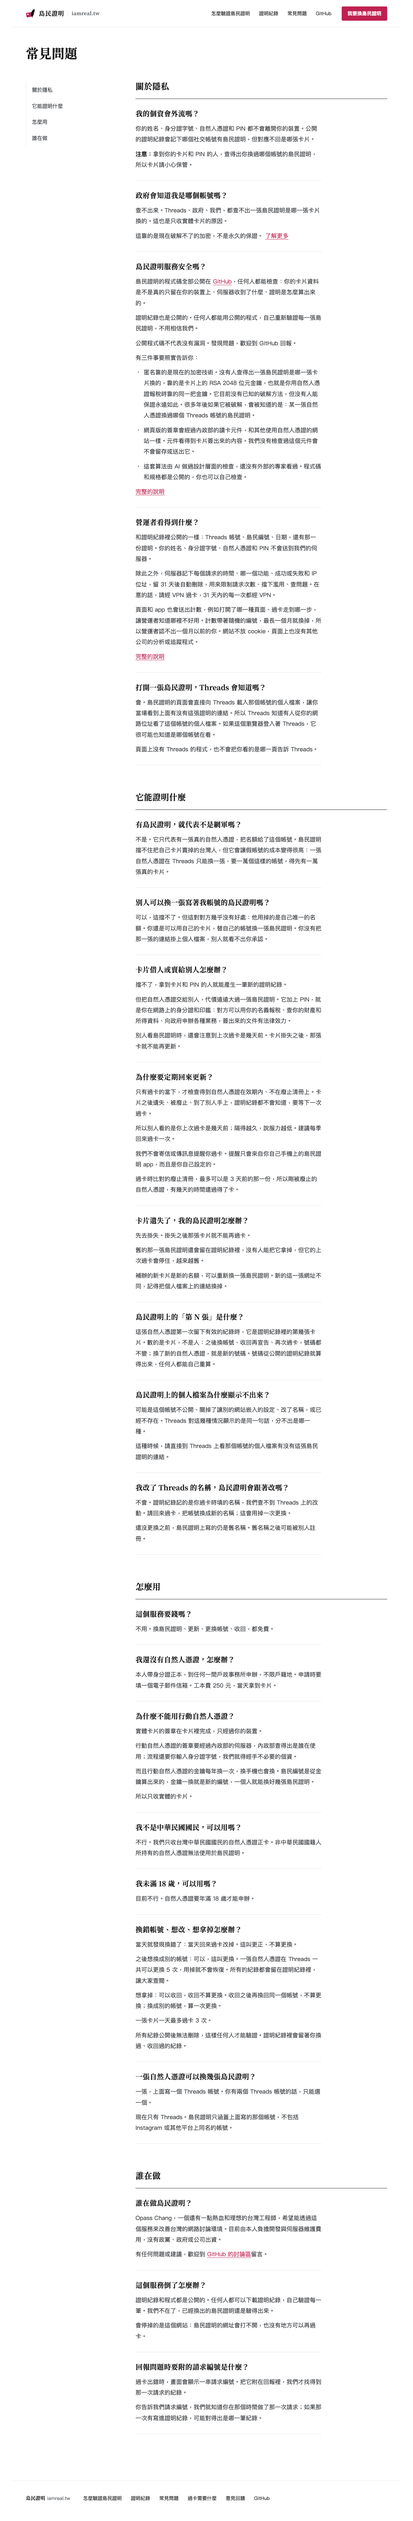
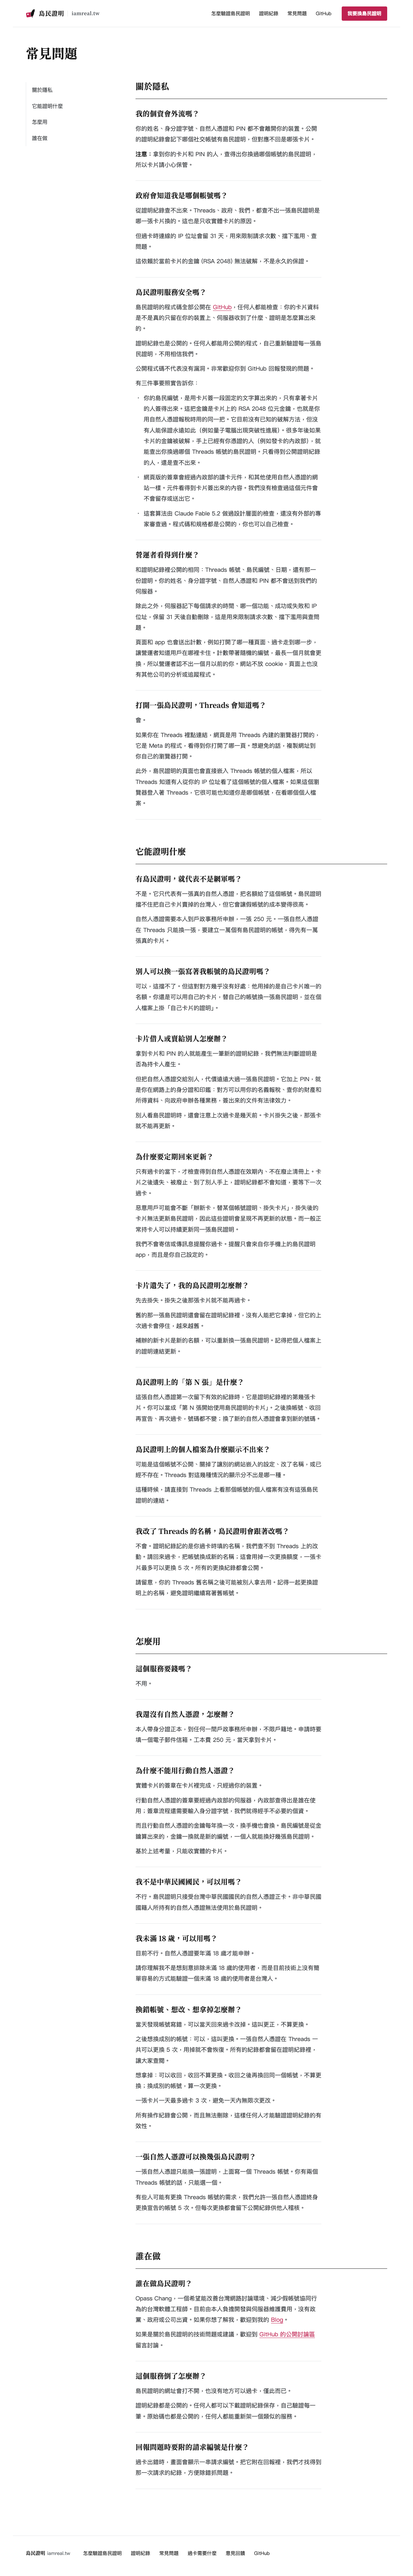
審查的修正：答案的連結只能連出站外、「有島民證明，就代表不是網軍嗎？」寫 250 元的來源、README 的網址清單、design/screens 的常見問題換成新的文字（#342）

Changed region(s): [[0.3125, 0.0312, 0.7812, 0.966], [0.0625, 0.0312, 0.125, 0.0623], [0.1562, 0.0, 0.1875, 0.0312]]

diff --git a/worker/test/site-pages.test.ts b/worker/test/site-pages.test.ts
@@ -91,11 +91,9 @@ describe("the FAQ", () => {
       assert.equal(shown?.[1], faqAnswerHtml(q.answer), `${q.question}: the answer is faq.md's`);
     }
     // An answer answers the question: it sends no one to another page of the site or another question to read on (faq.md, at the top).
+    // Its links go out of the site; a link to a feature of the site, the one other kind faq.md allows, would be named here.
     for (const q of questions) {
-      for (const { words, href } of faqLinks(q.answer)) {
-        assert.ok(!/^(\/faq|#|\/privacy)/.test(href), `${q.question}: ${words} goes to ${href}, an explanation on the site`);
-      }
-      notOnPage(faqAnswerHtml(q.answer).replace(/<[^>]*>/g, " "), "了解更多", "完整的說明");
+      for (const { words, href } of faqLinks(q.answer)) assert.match(href, /^https:\/\/(?![^/]*iamreal\.tw)/, `${q.question}: ${words} goes to ${href}, not out of the site`);
     }
 
     // The question of the ordinal (#299): in 它能證明什麼, right after the lost card; not on the home page.

diff --git a/worker/README.md b/worker/README.md
@@ -757,7 +757,7 @@ IAMREAL_SEQUENCE_STORAGE=1 node --experimental-strip-types --test test/sequence.
 - 測試的發證金鑰每個測試的程序產生一次（[`test/crls.ts`](test/crls.ts)）。私鑰留在那個程序的記憶體裡，用來簽測試的清冊；不寫進任何檔案，也不進任何建置。和 `crl/testdata/` 比對的那個測試，G2 換成簽 `crl/testdata/` 的那一把（只有公鑰）。
 - 怎麼換：[`test/build.ts`](test/build.ts) 經由 [`scripts/deploy.ts`](scripts/deploy.ts) 的 `bundleWorker` 跑 `wrangler deploy --dry-run`，用 `--alias` 把 `#target` 指到 `test-build/target.ts`，進入點換成 `test-build/index.ts`，金鑰和網址用 `--define` 帶進去。wrangler 的設定檔和部署的指令裡沒有這些參數，所以部署的建置拿到的一定是 `src/target.ts`。
 - 部署的那一包在上傳之前一定經過 [`scripts/deploy-build-checks.ts`](scripts/deploy-build-checks.ts) 的檢查（本機的 `pnpm run deploy:test` 和 GitHub Actions 的 `build` 工作都是，見「[部署測試環境](#部署測試環境)」）：
-  - JavaScript 裡的網址只有內政部的兩個，加上頁面和標頭裡寫的那幾個（`PAGE_ADDRESSES`：公開的程式庫、它的幾個檔和討論區、Threads、掛上去複製的島民證明網址）。後面這幾個只是寫在頁面和標頭裡的字，Worker 自己發出的請求仍然只有內政部的兩份清冊。過卡頁面的 CSP 裡的資料網域不在這一包裡：那一組標頭寫在 `site/_headers`
+  - JavaScript 裡的網址只有內政部的兩個，加上頁面和標頭裡寫的那幾個（`PAGE_ADDRESSES`：公開的程式庫、它的一個檔（`cmd/iamreal-verify/README.md`）和討論區、維護者的部落格（常見問題「誰在做島民證明？」）、Threads、掛上去複製的島民證明網址）。後面這幾個只是寫在頁面和標頭裡的字，Worker 自己發出的請求仍然只有內政部的兩份清冊。過卡頁面的 CSP 裡的資料網域不在這一包裡：那一組標頭寫在 `site/_headers`
   - JavaScript 裡長到可能是 RSA 金鑰的字串，恰好是 `spec/vectors/issuers.json` 的兩個模數，加上 Barretenberg 通用參數的那一個點（128 個位元組寫成十六進位，用它的 SHA-256 認，要恰好出現一次）。找得到的寫法是十六進位、十進位、base64、PEM；拆成數字陣列或執行時才拼起來的金鑰，這個檢查看不到
   - 沒有假的內政部、時鐘的開關和測試專用建置的其他痕跡
   - wrangler 列出的 binding 只有 `PROOF_LOG`、`DATA`、`PROOF_LOG_OBJECT_NAME`、`PROOF_LOG_KIND`、`TEST_PROOF_LOG_CLEARED_ON`，所以金鑰、網址、時鐘沒有設定值可以讀，Worker 也沒有 `ASSETS` 可以讀 Static Assets 的檔。用 `wrangler secret` 另外設在 Worker 上的密鑰不在設定檔裡，這個檢查看不到

diff --git a/design/copy/faq.md b/design/copy/faq.md
@@ -8,7 +8,7 @@
 - 四類，順序如下；每一類裡題目的順序就是頁面上的順序
 - 每一類有固定的 `id`（英文），寫在那一類的名稱下面
 - 每一題的題目是小標，下面的程式碼區塊是答案：空一行是分段，`·` 開頭是清單，`**…**` 是粗體，`[字](網址)` 是連結
-- 答案要直接回答問題，不用「了解更多」「完整的說明」把人帶去站內的其他頁面或其他題。連結只留兩種：外部的資源（例如 GitHub、維護者的部落格），和連到某個功能的連結
+- 常見問題要直接回答問題，不用「了解更多」「完整的說明」把人帶去站內的其他頁面或其他題。連結只留兩種：外部的資源（例如 GitHub、維護者的部落格），和連到某個功能的連結
 - 每一題有固定的 `id`（英文），寫在那一題最下面；別的頁面的「了解更多」連到 `/faq#` 加上那個 `id`
 - 最後一題下面不另外放東西，直接接頁尾（`home.md`「頁尾」）
 
@@ -114,7 +114,7 @@
 自然人憑證需要本人到戶政事務所申辦，一張 250 元。一張自然人憑證在 Threads 只能換一張，要建立一萬個有島民證明的帳號，得先有一萬張真的卡片。
 ```
 
-首頁的常見問題有這一題。
+「本人到戶政事務所申辦，一張 250 元」和「我還沒有自然人憑證，怎麼辦？」同一個來源：內政部《自然人憑證核發及管理作業要點》第四點（https://moica.nat.gov.tw/download/File/1000131.pdf）和內政部行動自然人憑證常見問題（https://fido.moi.gov.tw/pt/main/qa）。首頁的常見問題有這一題。
 
 這一題在頁面上的 `id`：`not-a-troll`，連到這一題寫 `/faq#not-a-troll`。
 
